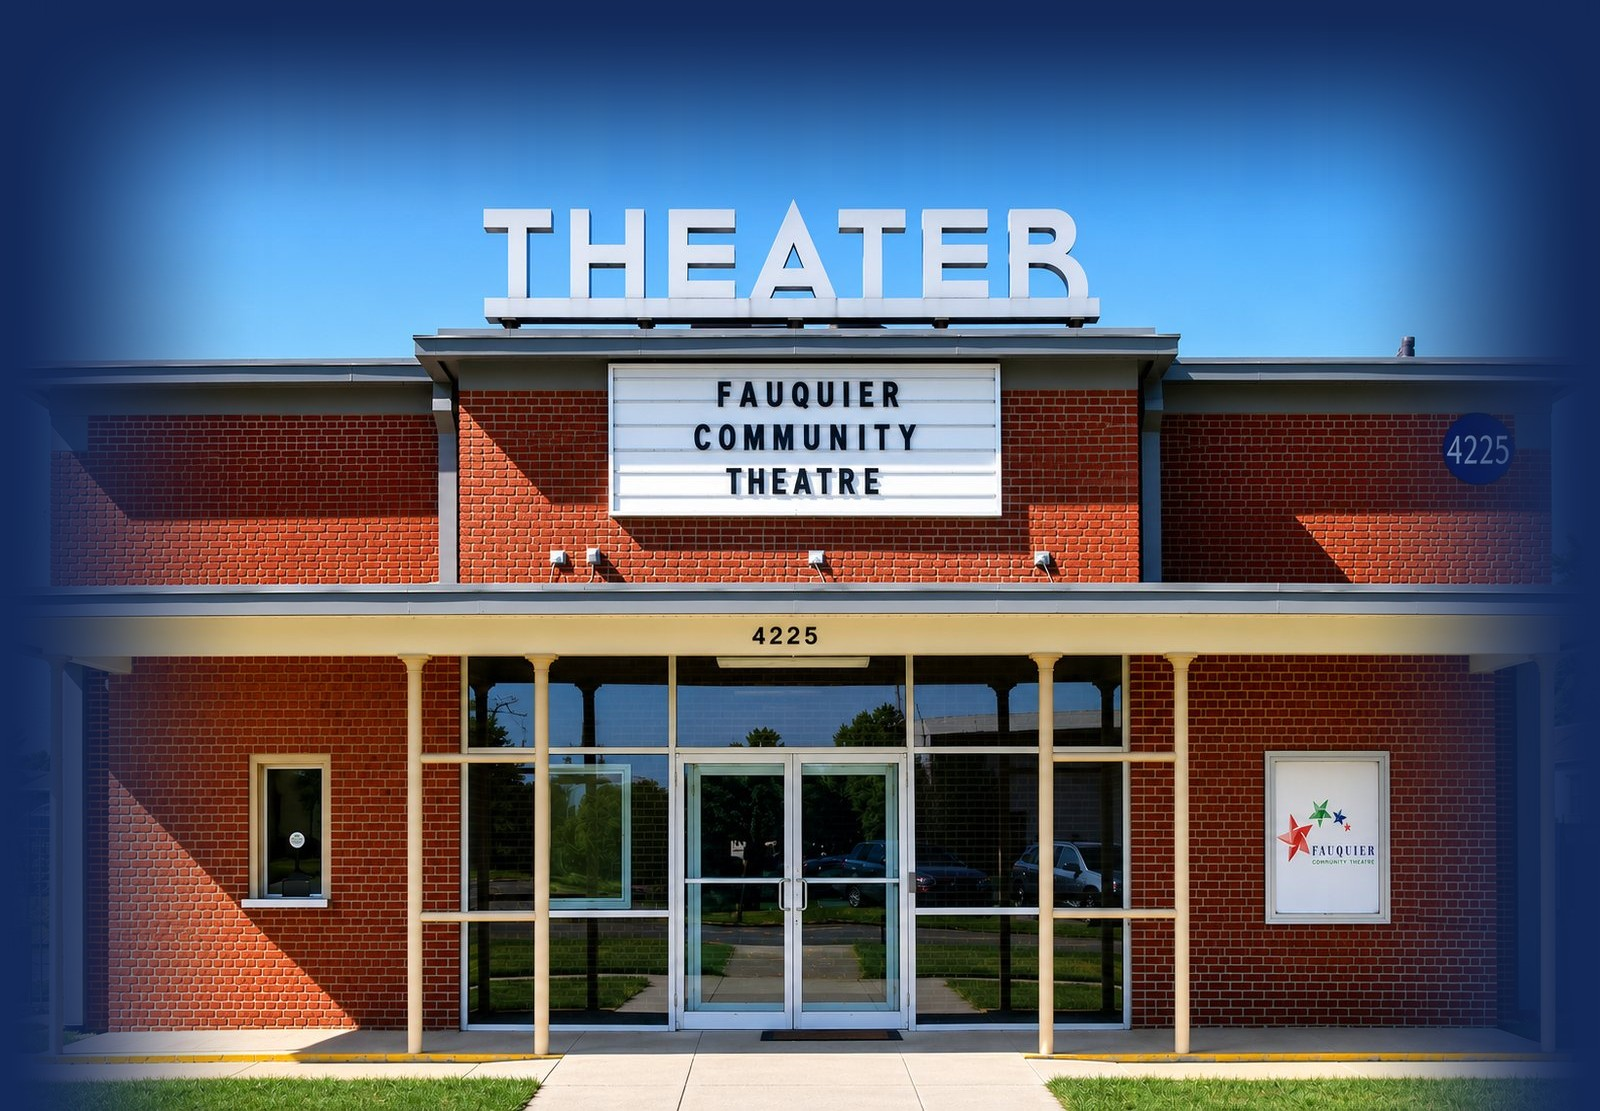
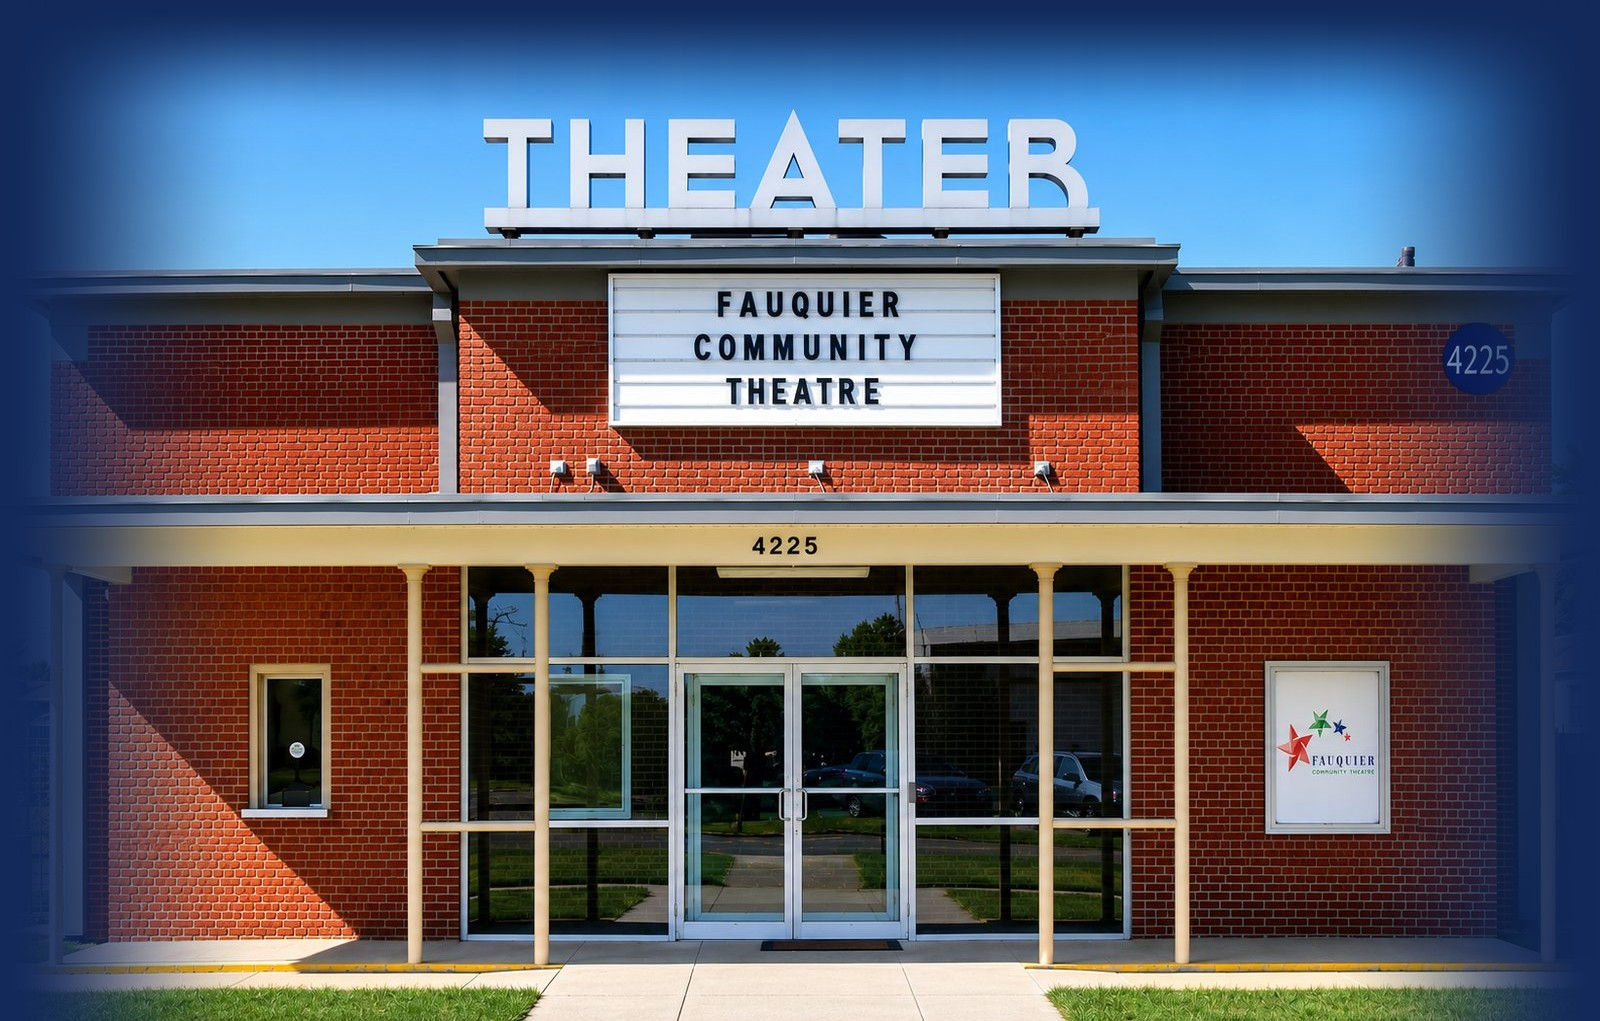
Shorten the hero's sky buffer to 90 px
Claude-Session: https://claude.ai/code/session_016XixYr4NeC9ZREUuuSN7Am

diff --git a/tools/build_google_site_hero.py b/tools/build_google_site_hero.py
@@ -12,7 +12,7 @@ OUT='assets/google-site'
 
 def smooth(t): return t*t*(3-2*t)
 
-def build(buffer=180, blend_into_photo=60, name='fct-hero-google-site-1600.jpg'):
+def build(buffer=90, blend_into_photo=40, name='fct-hero-google-site-1600.jpg'):
     photo=Image.open('assets/images/fauquier-community-theatre-hero-1600.jpg').convert('RGB')
     pw,ph=photo.size; H=ph+buffer
     im=Image.new('RGB',(pw,H),NAVY_DARK); im.paste(photo,(0,buffer))

diff --git a/assets/google-site/README.md b/assets/google-site/README.md
@@ -17,7 +17,7 @@ gold `#f2b632`, body text `#22304a`, warm background `#f6f7fb`.
 ## Files
 
 - `fct-hero-google-site-1600.jpg` — **Hero image to insert as a normal image block** (not a header).
-  Place it in a section with background `#12295a`. Sides and a 180 px sky buffer on top ease into
+  Place it in a section with background `#12295a`. Sides and a 90 px sky buffer on top ease into
   that navy; the bottom edge is hard so the section can cut it off.
 - `fct-logo-google-site-240h.png` — header logo, navy text, transparent (240 px tall)
 - `fct-logo-google-site-240h-white.png` — same lockup for a dark header
